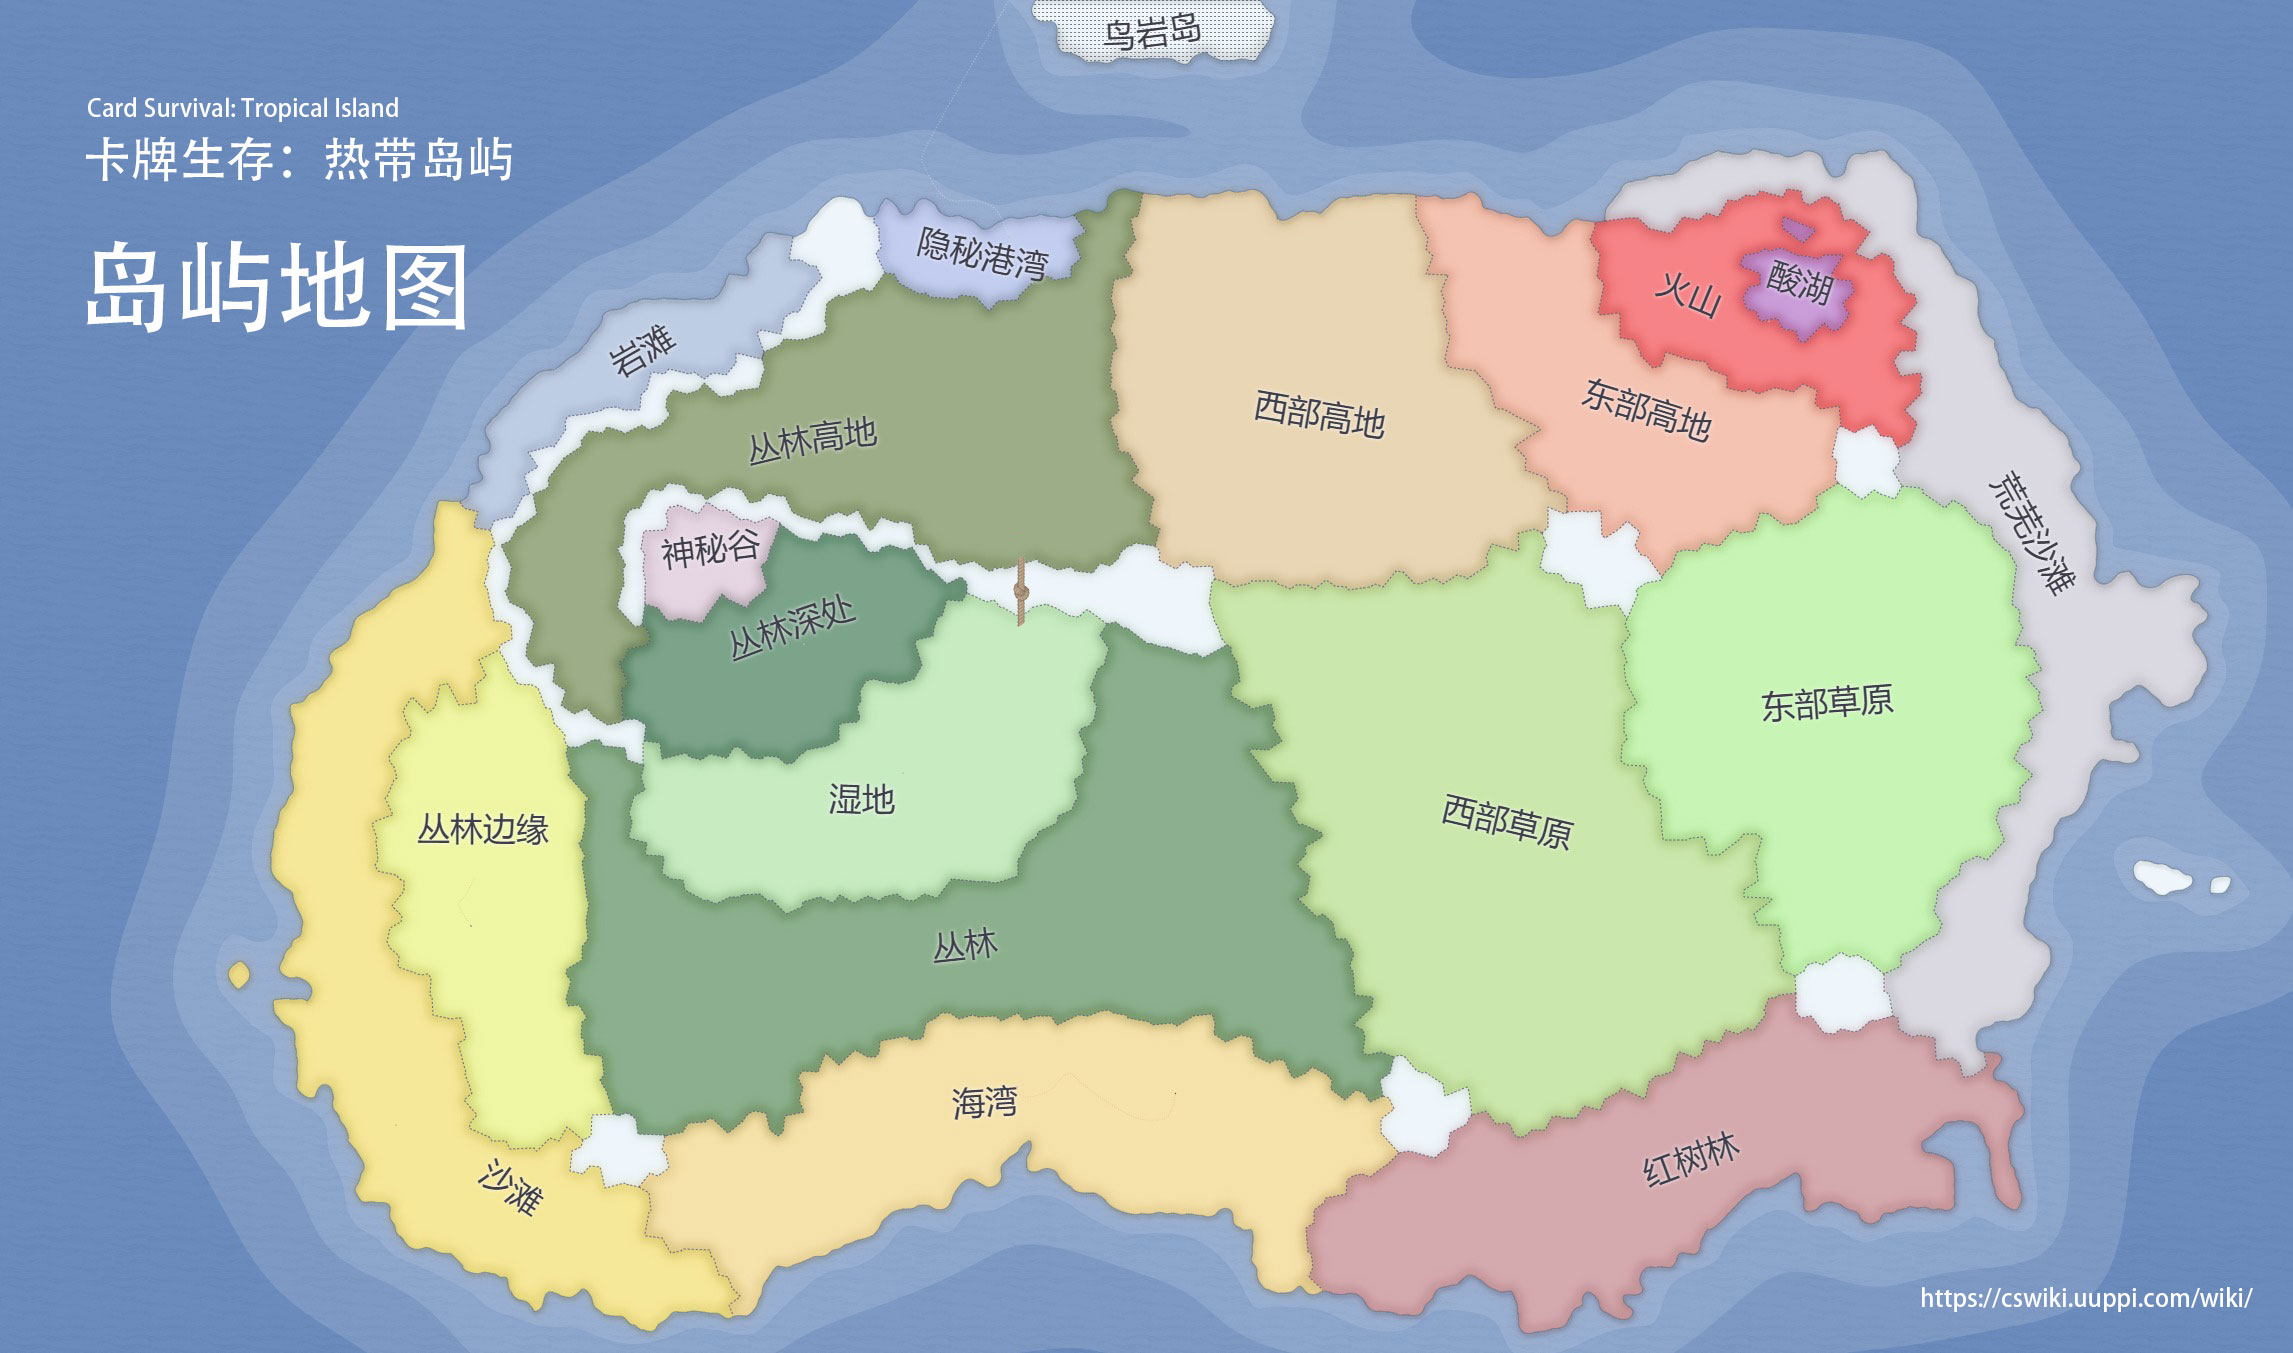
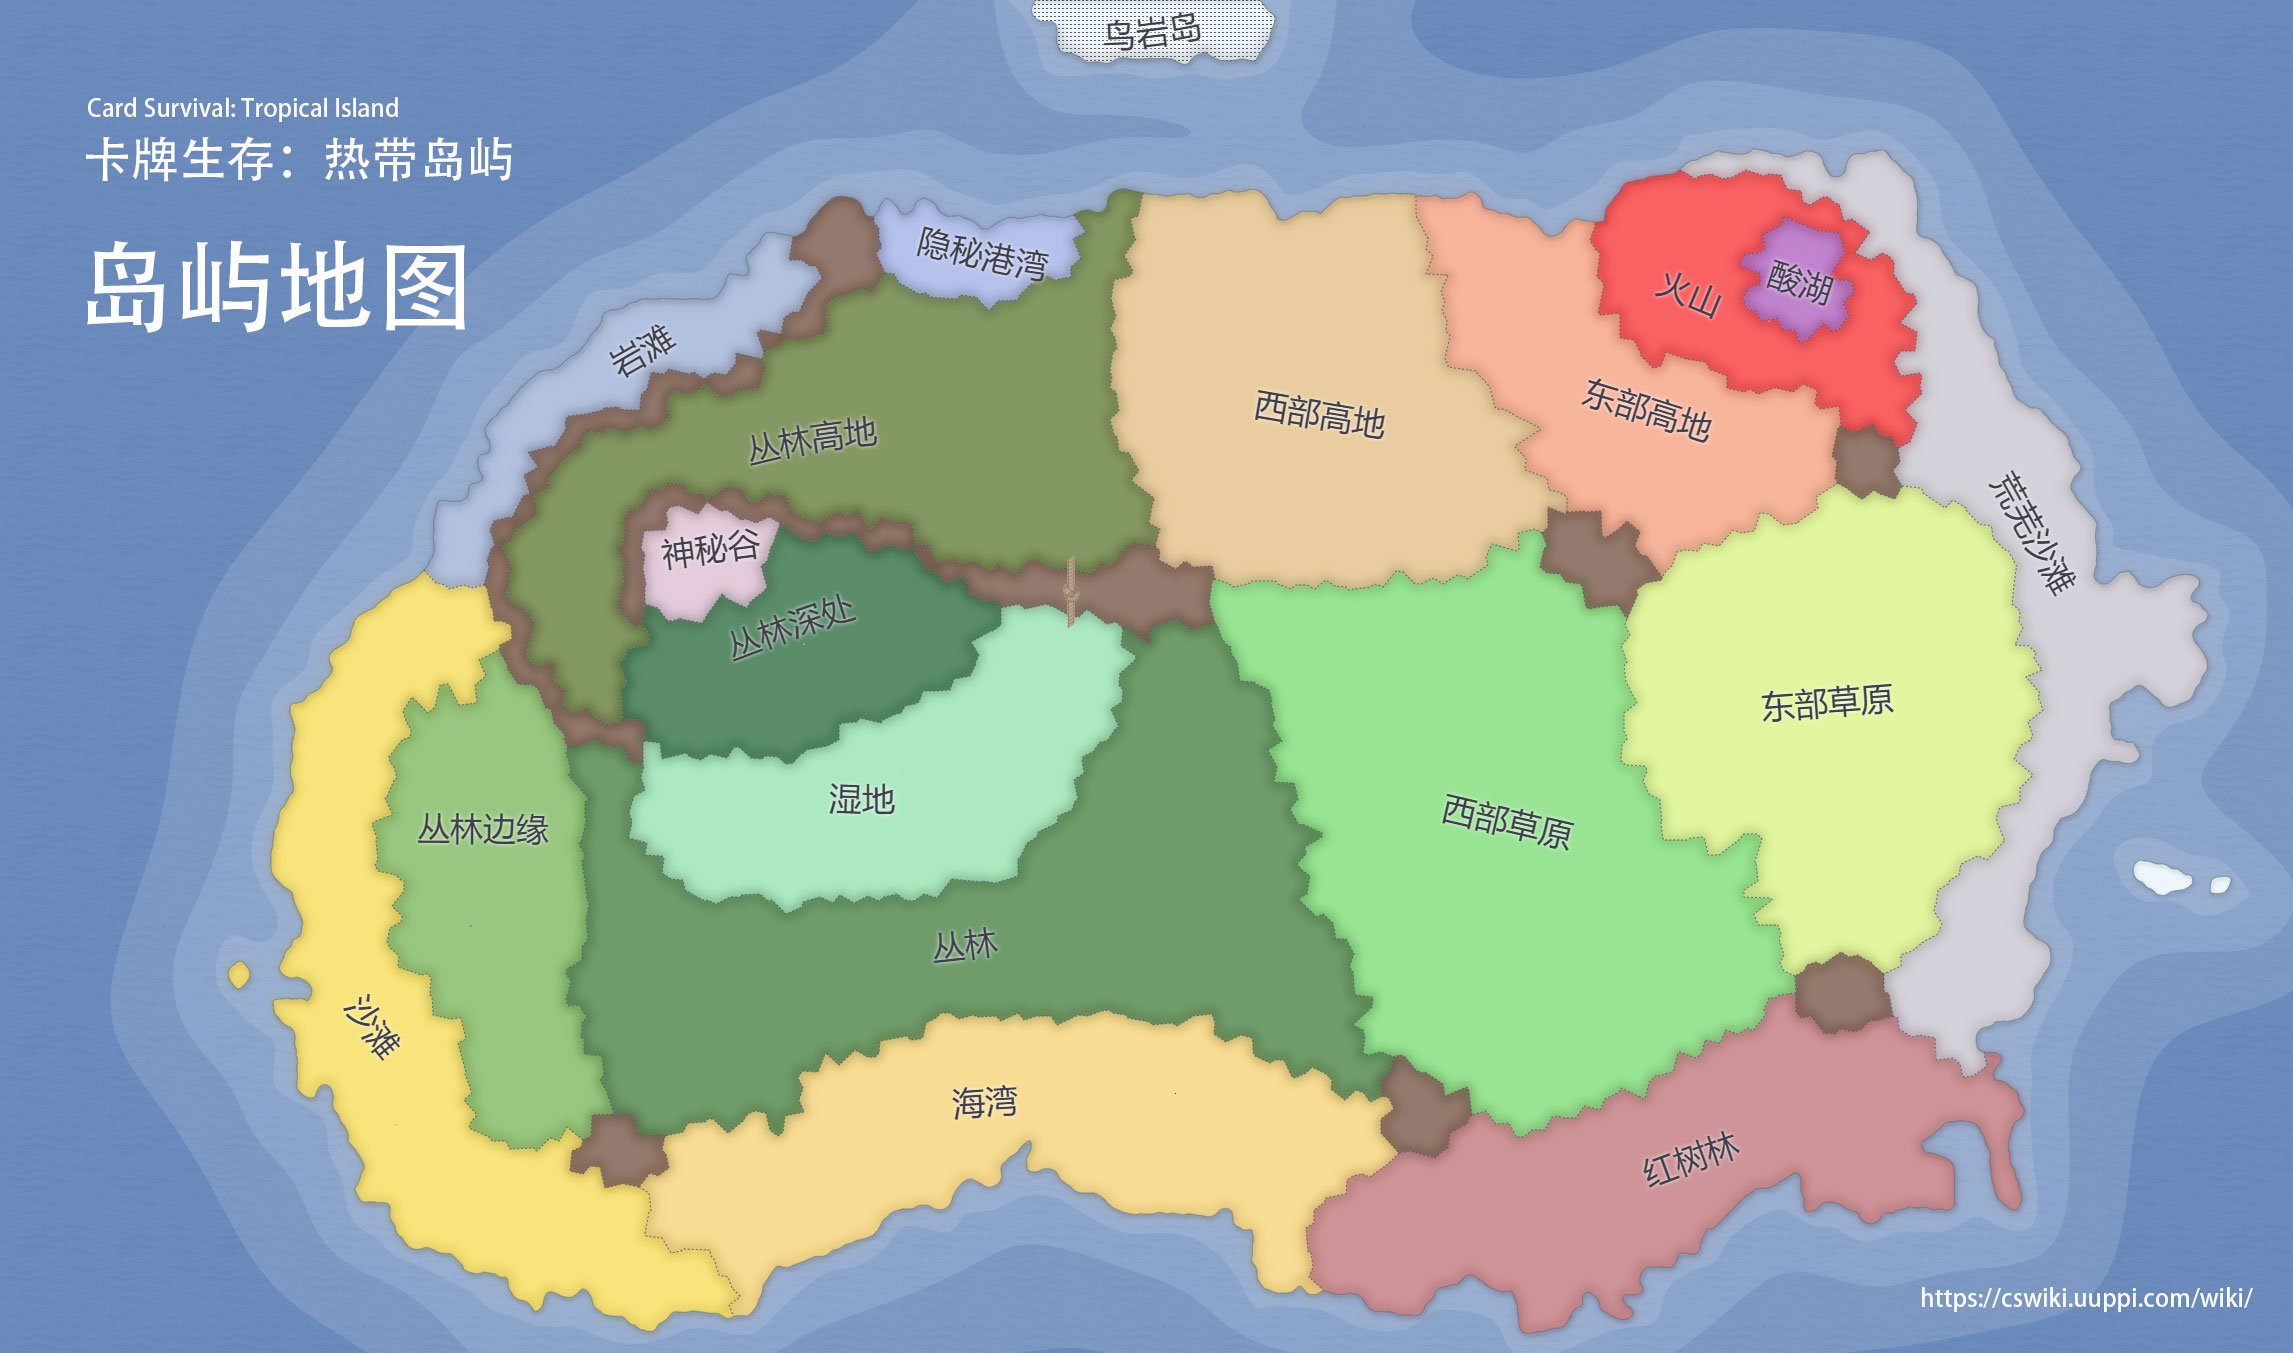
map

diff --git a/wiki/jquery.rwdImageMaps.min.js b/wiki/jquery.rwdImageMaps.min.js
@@ -1,0 +1,11 @@
+/*
+* rwdImageMaps jQuery plugin v1.6
+*
+* Allows image maps to be used in a responsive design by recalculating the area coordinates to match the actual image size on load and window.resize
+*
+* Copyright (c) 2016 Matt Stow
+* https://github.com/stowball/jQuery-rwdImageMaps
+* http://mattstow.com
+* Licensed under the MIT license
+*/
+;(function(a){a.fn.rwdImageMaps=function(){var c=this;var b=function(){c.each(function(){if(typeof(a(this).attr("usemap"))=="undefined"){return}var e=this,d=a(e);a("<img />").on('load',function(){var g="width",m="height",n=d.attr(g),j=d.attr(m);if(!n||!j){var o=new Image();o.src=d.attr("src");if(!n){n=o.width}if(!j){j=o.height}}var f=d.width()/100,k=d.height()/100,i=d.attr("usemap").replace("#",""),l="coords";a('map[name="'+i+'"]').find("area").each(function(){var r=a(this);if(!r.data(l)){r.data(l,r.attr(l))}var q=r.data(l).split(","),p=new Array(q.length);for(var h=0;h<p.length;++h){if(h%2===0){p[h]=parseInt(((q[h]/n)*100)*f)}else{p[h]=parseInt(((q[h]/j)*100)*k)}}r.attr(l,p.toString())})}).attr("src",d.attr("src"))})};a(window).resize(b).trigger("resize");return this}})(jQuery);

diff --git a/wiki/map.md b/wiki/map.md
@@ -1,8 +1,43 @@
-# 岛屿地图（假想图）  
-![](image/game_map.jpg)  
-  
-![](image/game_map_cave.jpg)  
-  
+# 岛屿地图
 
+<script src="./jquery.rwdImageMaps.min.js"></script>
+<!-- Image Map Generated by http://www.image-map.net/ -->
+<div>
+<img src="image/game_map.jpg" style="width:100%" usemap="#image-map">
+
+<map name="image-map">
+    <area target="" alt="海湾" title="海湾" href="./#!Bay.md" coords="695,1161,741,1278,1001,1163,1282,1242,1373,1118,1116,1019,818,1070" shape="poly">
+    <area target="" alt="红树林" title="红树林" href="./#!Mangroves.md" coords="1347,1207,1341,1298,1596,1306,1809,1205,2009,1203,2005,1075,1795,1021" shape="poly">
+    <area target="" alt="沙滩" title="沙滩" href="./#!Beach.md" coords="630,1189,727,1302,506,1280,352,1187,280,982,288,715,436,508,496,640,385,743,381,893,464,1102" shape="poly">
+    <area target="" alt="丛林边缘" title="丛林边缘" href="./#!Outskirts.md" coords="490,654,395,741,391,895,464,1092,612,1116,567,968,571,750" shape="poly">
+    <area target="" alt="丛林" title="丛林" href="./#!Jungle.md" coords="583,750,575,966,626,1110,713,1120,810,1055,1096,1003,1365,1090,1215,636,1149,644,1033,871,709,912" shape="poly">
+    <area target="" alt="湿地" title="湿地" href="./#!Wetlands.md" coords="1138,638,1021,852,703,887,640,759,802,759,1009,618,1070,610" shape="poly">
+    <area target="" alt="丛林深处" title="丛林深处" href="./#!DeepJungle.md" coords="1001,610,800,537,756,605,652,624,620,703,656,743,802,747" shape="poly">
+    <area target="" alt="神秘谷" title="神秘谷" href="./#!SecretValley.md" coords="776,526,677,508,646,539,648,610,749,597" shape="poly">
+    <area target="" alt="丛林高地" title="丛林高地" href="./#!JungleHighlands.md" coords="624,628,606,717,527,654,506,539,596,431,877,285,999,306,1104,279,1149,520,1055,577,662,478,612,547" shape="poly">
+    <area target="" alt="岩滩" title="岩滩" href="./#!Rocks.md" coords="794,239,814,304,567,429,498,521,444,494,596,306" shape="poly">
+    <area target="" alt="隐秘港湾" title="隐秘港湾" href="./#!Cove.md" coords="867,202,877,271,991,294,1068,271,1088,215" shape="poly">
+    <area target="" alt="西部高地" title="西部高地" href="./#!HighlandsWestern.md" coords="1147,195,1112,280,1167,572,1377,588,1531,531,1525,432,1454,361,1416,189" shape="poly">
+    <area target="" alt="东部高地" title="东部高地" href="./#!HighlandsEastern.md" coords="1422,191,1456,353,1531,430,1535,456,1665,563,1829,486,1831,403,1663,361,1592,308,1592,223,1519,223" shape="poly">
+    <area target="" alt="西部草原" title="西部草原" href="./#!GrasslandsW.md" coords="1213,598,1377,598,1539,541,1620,620,1631,770,1673,847,1746,847,1785,1007,1517,1116,1377,1058" shape="poly">
+    <area target="" alt="东部草原" title="东部草原" href="./#!GrasslandsE.md" coords="1631,592,1637,760,1677,831,1750,837,1787,966,1882,966,2032,756,2018,567,1904,490,1843,484" shape="poly">
+    <area target="" alt="荒芜沙滩" title="荒芜沙滩" href="./#!DesolateBeach.md" coords="1888,979,1900,1023,1991,1052,2232,620,2127,525,1920,165,1697,152,1839,197,1908,302,1902,468,2009,545,2044,760" shape="poly">
+    <area target="" alt="火山" title="火山" href="./#!Volcano.md" coords="1596,221,1600,308,1671,348,1829,391,1849,425,1894,440,1900,308,1829,201,1702,160,1623,180" shape="poly">
+    <area target="" alt="酸湖" title="酸湖" href="./#!AcidLake.md" coords="1776,219,1742,262,1738,308,1825,335,1855,276,1841,231" shape="poly">
+    <area target="" alt="鸟岩岛" title="鸟岩岛" href="./#!BirdRock.md" coords="1023,9,1055,79,1250,75,1296,0" shape="poly">
+</map>
+
+</div>
+
+<script>
+    $('img[usemap]').rwdImageMaps();
+</script>
+<hr>
 
 <script>document.title="地图 - 卡牌生存百科 Card Survival Wiki";</script>
+
+![](image/game_map_cave.jpg)
+
+![](image/game_map_3d.jpg)
+
+![](image/game_map_biome.jpg)
